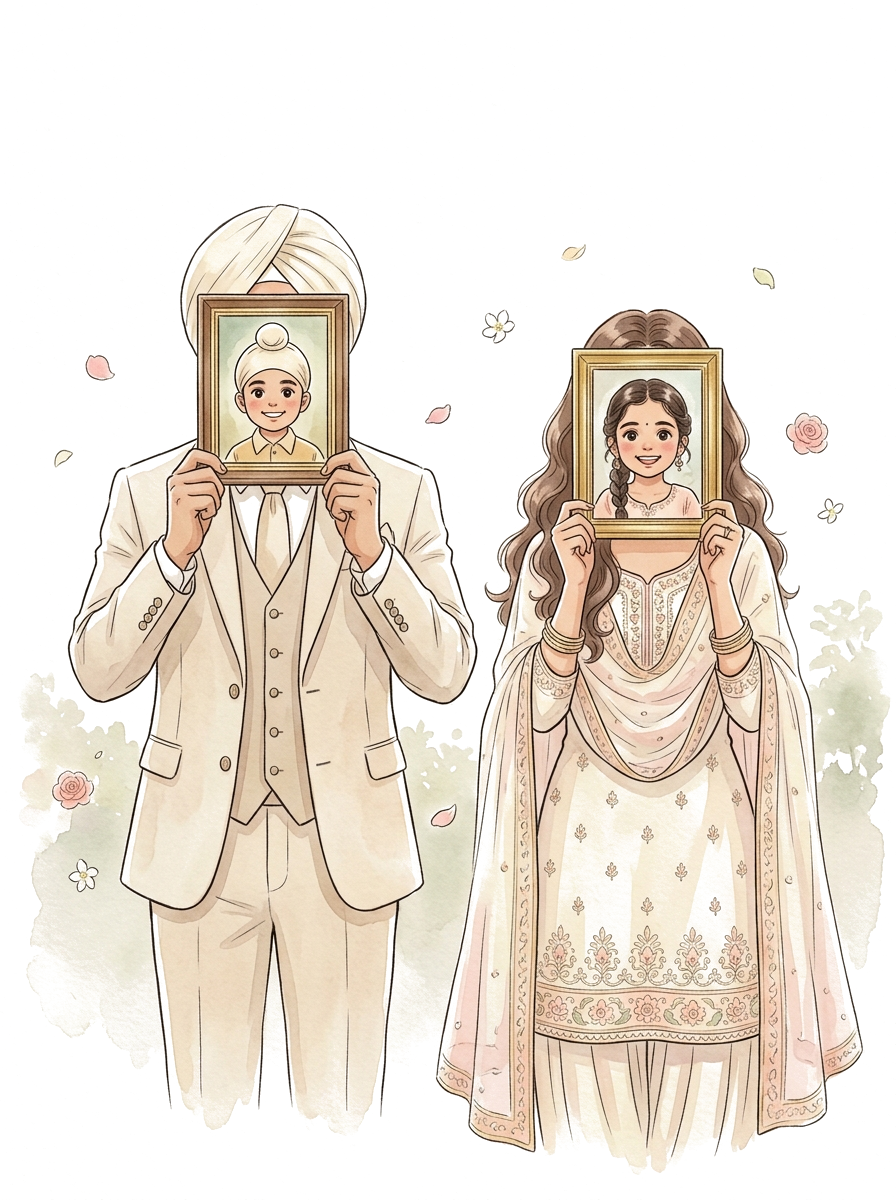
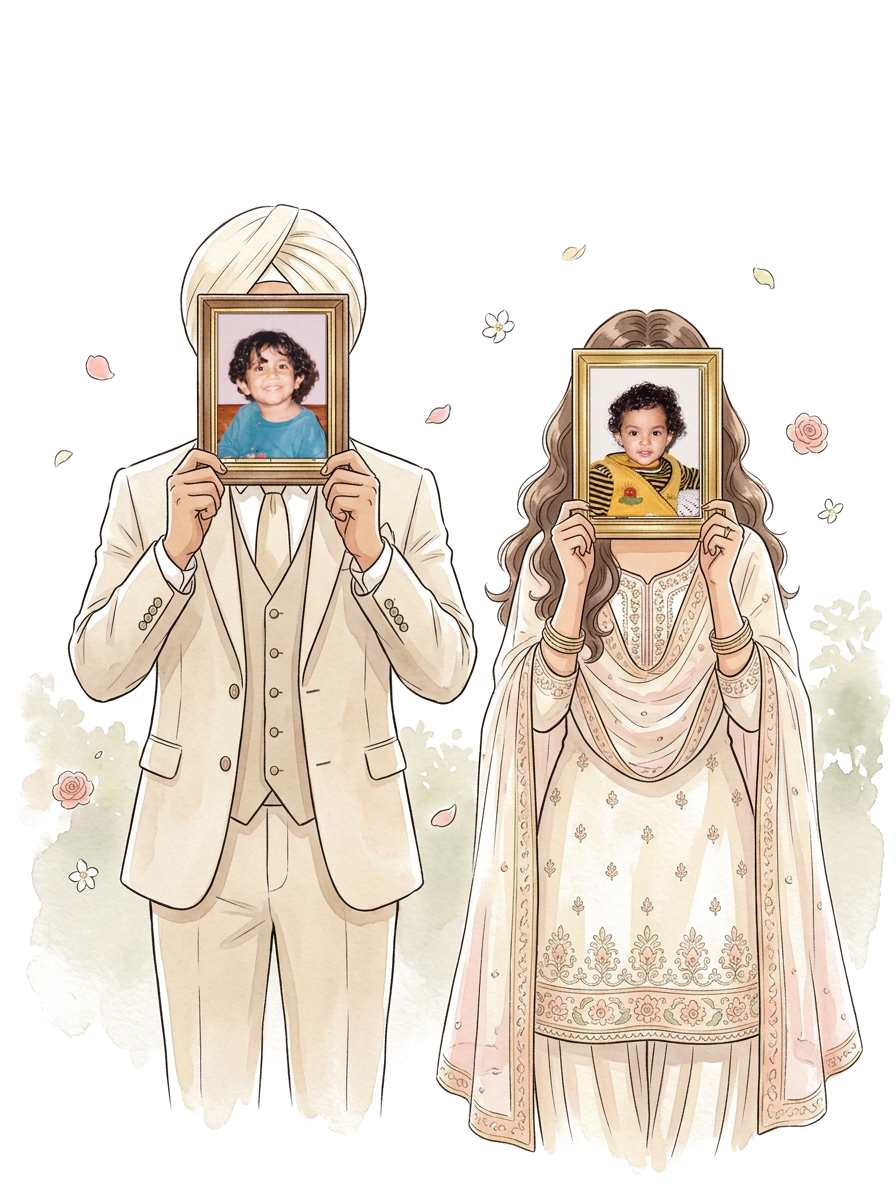
Replace couple illustration portrait frames with bride and groom childhood photos

Changed region(s): [[0.2188, 0.2467, 0.375, 0.4008], [0.6562, 0.3083, 0.7812, 0.4317]]

diff --git a/src/data/weddingData.ts b/src/data/weddingData.ts
@@ -66,5 +66,7 @@ export const weddingData = {
     bouquet: "/bouquet.png",
     venue: "/venue-night.jpg",
     diyaLamp: "/diya-lamp.png",
+    brideChildhood: "/bride-childhood.jpg",
+    groomChildhood: "/groom-childhood.jpg",
   },
 };

diff --git a/src/components/FamilyBlessing.tsx b/src/components/FamilyBlessing.tsx
@@ -54,3 +54,4 @@ export const FamilyBlessing: React.FC = () => {
     </section>
   );
 };
+

diff --git a/src/components/RsvpSection.tsx b/src/components/RsvpSection.tsx
@@ -114,3 +114,4 @@ export const RsvpSection: React.FC = () => {
     </section>
   );
 };
+
